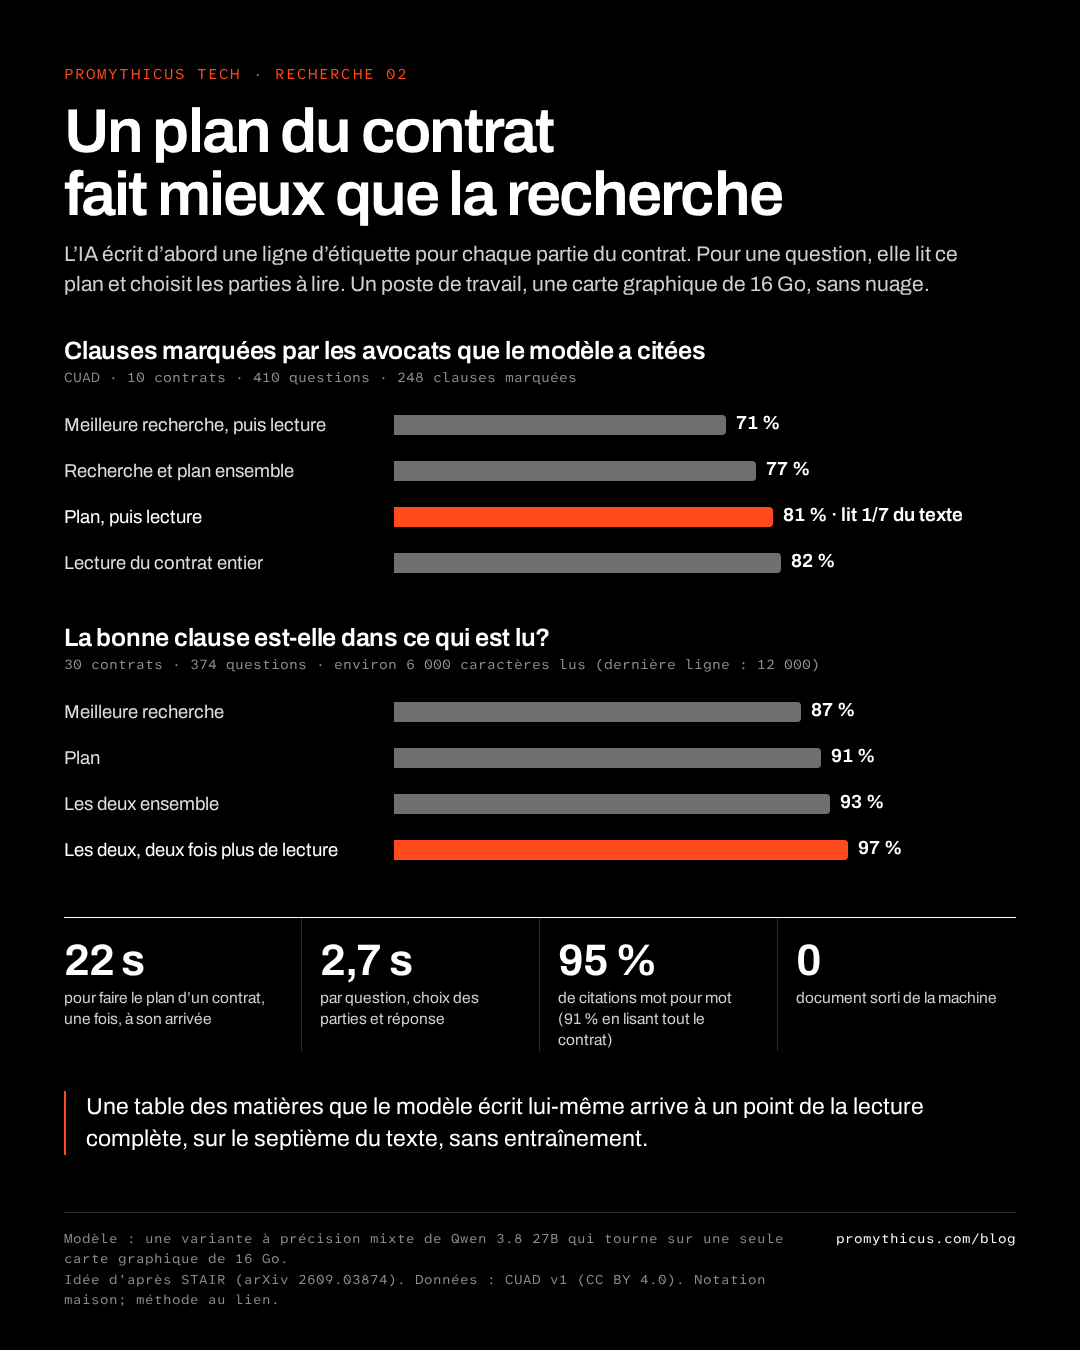
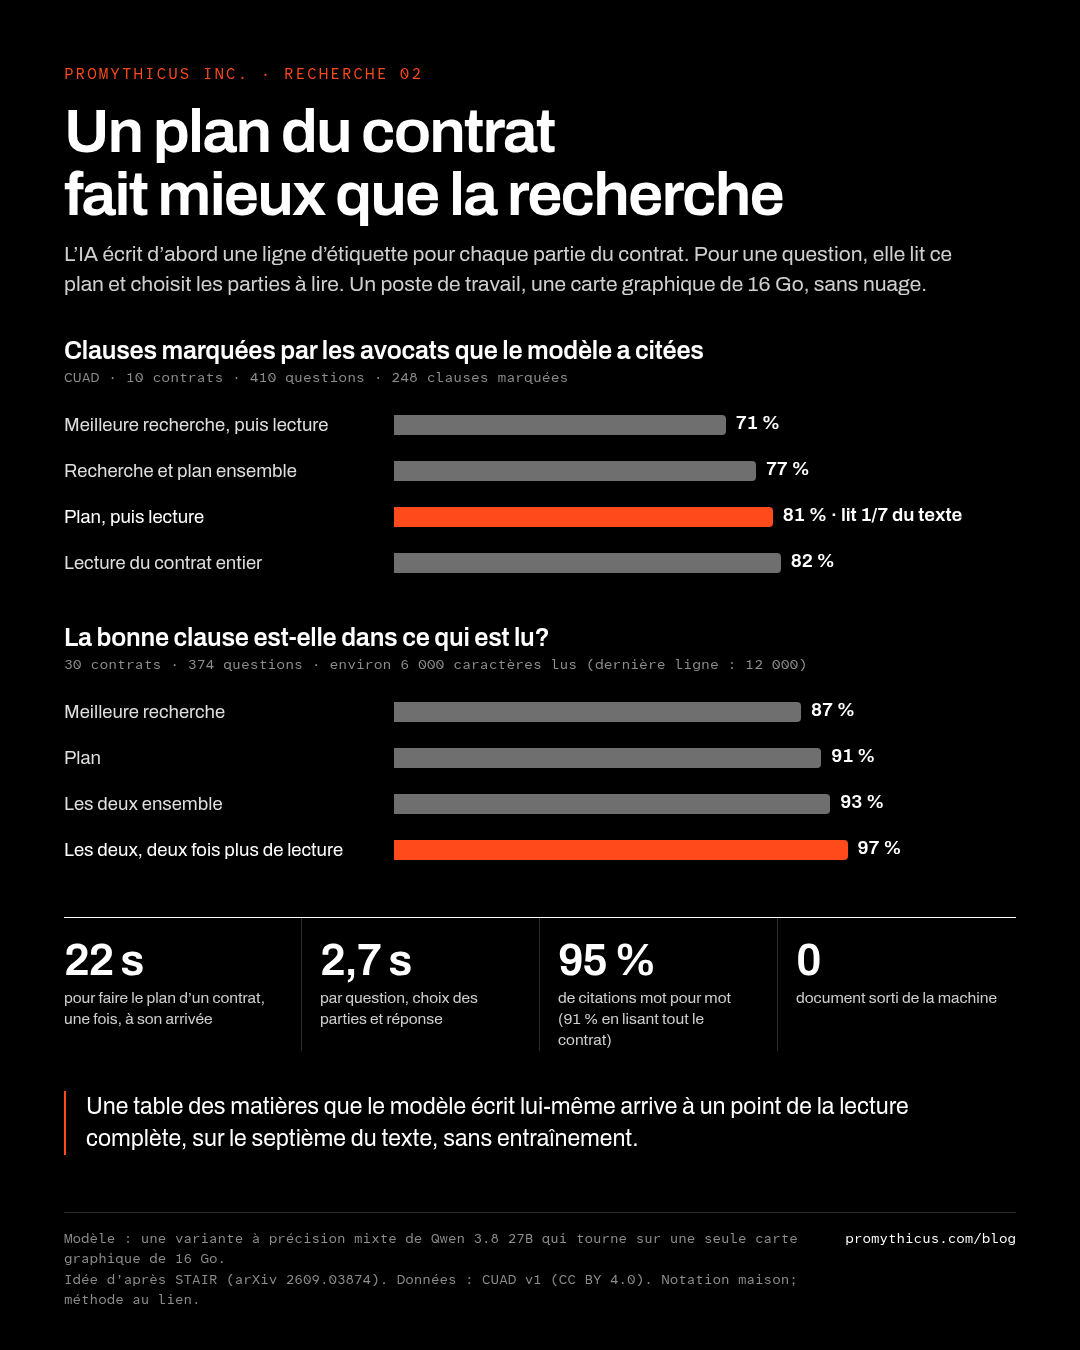
Name the author

diff --git a/publish/infographic-fr.html b/publish/infographic-fr.html
@@ -18,7 +18,7 @@ h2{font-size:25px;letter-spacing:-.01em;font-weight:620;margin:38px 0 4px}
 .foot{position:absolute;left:64px;right:64px;bottom:40px;border-top:1px solid #2b2b2b;padding-top:16px;font:400 13.5px/1.5 Mono,monospace;color:#8d8d8d;display:flex;justify-content:space-between;gap:30px}
 .foot b{color:#fff;font-weight:400}
 .row{height:46px}.take{margin-top:40px}</style></head><body>
-<p class="k">Promythicus Tech · Recherche 02</p>
+<p class="k">Promythicus Inc. · Recherche 02</p>
 <h1>Un plan du contrat<br>fait mieux que la recherche</h1>
 <p class="sub">L’IA écrit d’abord une ligne d’étiquette pour chaque partie du contrat. Pour une question, elle lit ce plan et choisit les parties à lire. Un poste de travail, une carte graphique de 16 Go, sans nuage.</p>
 

diff --git a/publish/infographic.html b/publish/infographic.html
@@ -18,7 +18,7 @@ h2{font-size:25px;letter-spacing:-.01em;font-weight:620;margin:38px 0 4px}
 .foot{position:absolute;left:64px;right:64px;bottom:40px;border-top:1px solid #2b2b2b;padding-top:16px;font:400 13.5px/1.5 Mono,monospace;color:#8d8d8d;display:flex;justify-content:space-between;gap:30px}
 .foot b{color:#fff;font-weight:400}
 .row{height:46px}.take{margin-top:40px}</style></head><body>
-<p class="k">Promythicus Tech · Research 02</p>
+<p class="k">Promythicus Inc. · Research 02</p>
 <h1>An outline of the contract<br>beats searching it</h1>
 <p class="sub">The AI first writes a one-line label for each part of a contract. For a question, it reads the outline and picks the parts to read. One workstation, one 16 GB graphics card, no cloud.</p>
 

diff --git a/README.md b/README.md
@@ -1,6 +1,6 @@
 # 02. Routing by an outline of the contract
 
-**Promythicus Tech research.** Write-up for a general reader: [promythicus.com/blog/contract-outline-beats-search-local-ai-test/](https://promythicus.com/blog/contract-outline-beats-search-local-ai-test/)
+**Promythicus research. Author: Bardia Shahrestani.** Write-up for a general reader: [promythicus.com/blog/contract-outline-beats-search-local-ai-test/](https://promythicus.com/blog/contract-outline-beats-search-local-ai-test/)
 
 <a href="https://promythicus.com/blog/contract-outline-beats-search-local-ai-test/"><img src="publish/infographic.png" alt="Summary of the results" width="540"></a>
 
@@ -105,7 +105,7 @@ for later). Article in the site repo, `posts_research.py`, key `research02`.
 
 ## Licence
 
-Code and write-ups: Apache-2.0, copyright 2026 Promythicus Tech Inc. Result files that quote dataset text keep the
+Code and write-ups: Apache-2.0, copyright 2026 Promythicus Tech Inc. Author: Bardia Shahrestani. Result files that quote dataset text keep the
 dataset's licence (CUAD: CC BY 4.0, The Atticus Project).
 
 One run of each, our own scoring: these numbers cannot be set beside published benchmarks. Corrections are welcome:
